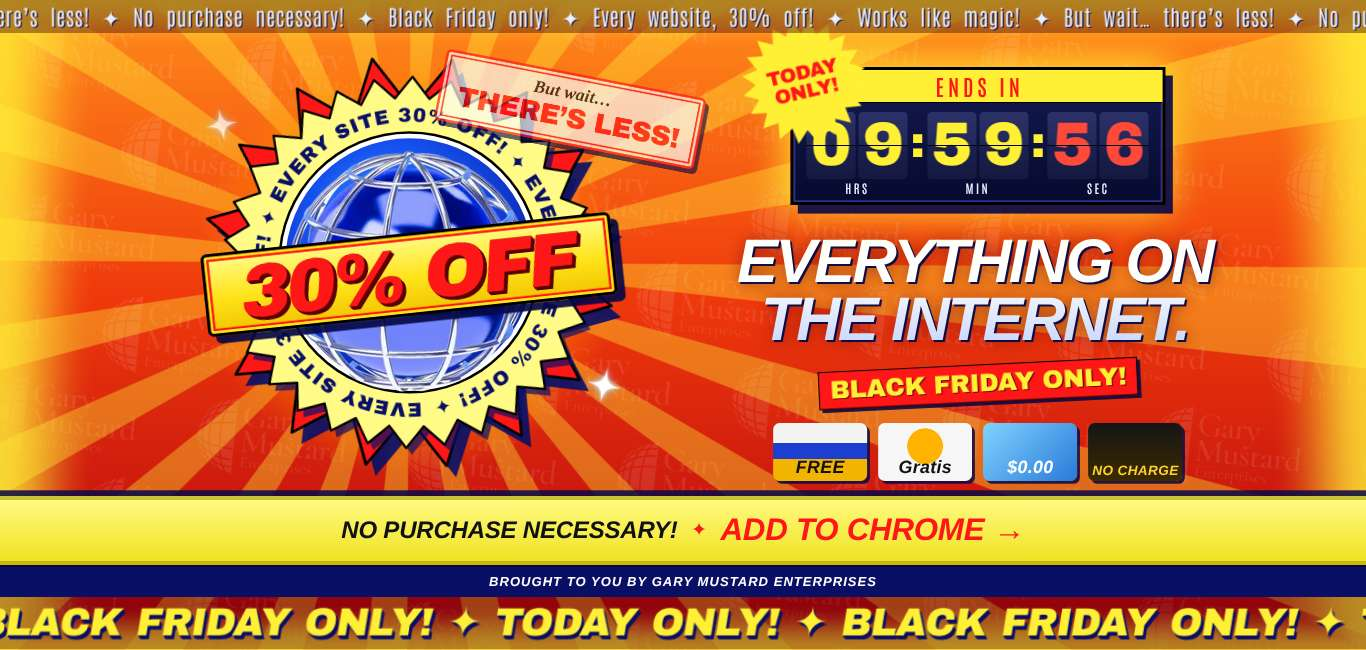
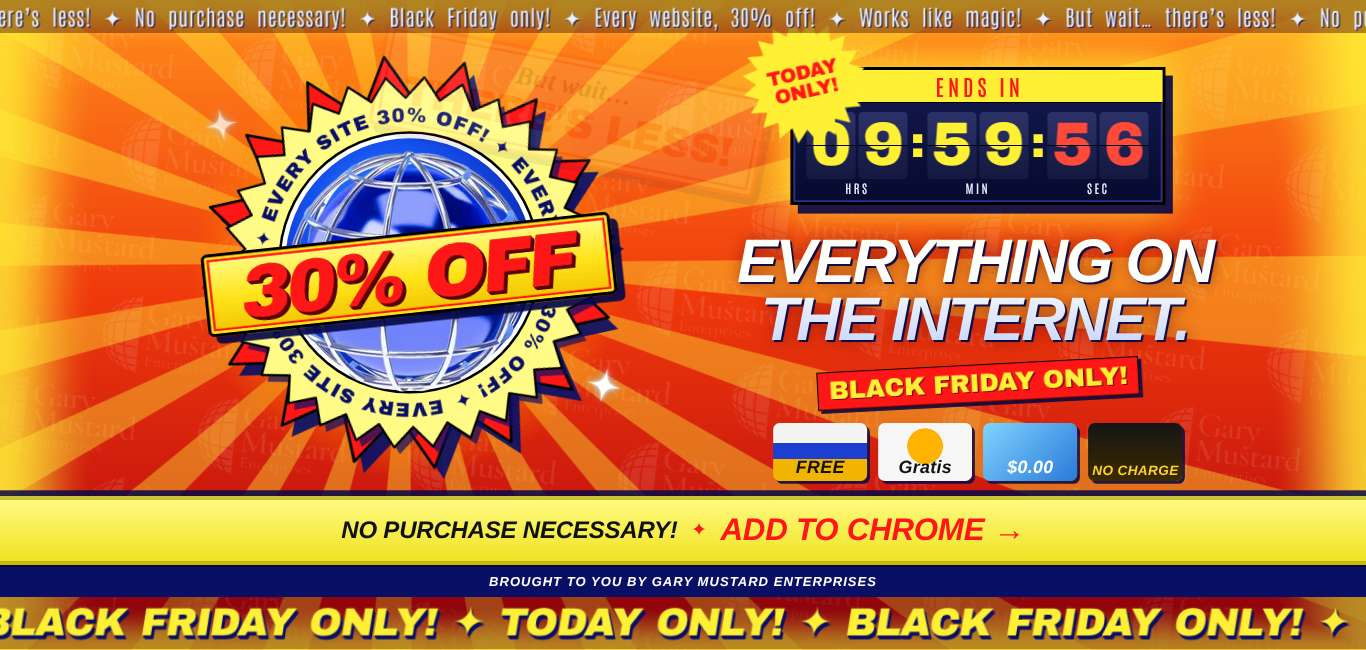
Website, phones: no cards (too cramped); more room for the badge, the words and the clock
Claude-Session: https://claude.ai/code/session_01NWuCfpnnkXbDHA2WA7GWBY

diff --git a/website/src/style.css b/website/src/style.css
@@ -61,11 +61,9 @@ body { -webkit-font-smoothing: antialiased; -webkit-tap-highlight-color: transpa
          grid-template: "badge clock" 33fr "badge words" 67fr / 52fr 48fr; column-gap: calc(56 * var(--s));
          padding: calc(16 * var(--s)) calc(48 * var(--s)) calc(20 * var(--s)); }
 /* tall windows read down from the badge: 30% OFF, EVERYTHING ON THE INTERNET., BLACK FRIDAY ONLY!, then the
-   clock, then the cards in a row of their own */
-.tall .stage { grid-template: "badge" 380fr "words" 170fr "clock" 132fr "cards" 78fr / 100%; padding: calc(10 * var(--s)) calc(14 * var(--s)) calc(14 * var(--s)); }
-.cards-box { grid-area: cards; position: relative; min-width: 0; min-height: 0; display: none; }
-.tall .cards-box { display: block; }
-.cards-box .cards { margin-top: 0; }
+   clock. No cards: there is no room for them */
+.tall .stage { grid-template: "badge" 410fr "words" 170fr "clock" 166fr / 100%; padding: calc(10 * var(--s)) calc(14 * var(--s)) calc(14 * var(--s)); }
+.tall .cards { display: none; }
 .badge-box { grid-area: badge; position: relative; min-height: 0; container-type: size; }
 .clock-box { grid-area: clock; position: relative; min-width: 0; min-height: 0; z-index: 2; }
 .words-box { grid-area: words; position: relative; min-width: 0; min-height: 0; z-index: 1; }

diff --git a/website/src/main.js b/website/src/main.js
@@ -156,11 +156,8 @@ function layout() {
   const s = tall ? Math.min(W / 430, H / 900) : Math.min(W / 1280, H / 800);
   root.style.setProperty('--s', `${s}px`);
 
-  // in a tall window the cards have their own row under the clock; in a wide one they follow the words
-  (tall ? $('.cards-box .fit') : $('.words')).append($('.cards'));
   fit($('.timer'), tall ? { w: 0.9, h: 0.94 } : { w: 0.94, h: 0.96 });
   fit($('.words'), tall ? { w: 0.94, h: 0.96 } : { w: 0.96, h: 0.96 });
-  if (tall) fit($('.cards-box .fit'), { w: 0.86, h: 0.8 });
   fit($('.order .fit'), tall ? { w: 0.9, h: 0.72 } : { w: 0.9, h: 0.46 });
   fit($('.by .fit'), { w: 0.92, h: 0.42 });
   settle(tall, s);

diff --git a/website/src/index.html b/website/src/index.html
@@ -80,8 +80,6 @@
         </div>
       </div>
 
-      <div class="cards-box"><div class="fit"></div></div>
-
       <div class="words-box">
         <div class="fit words">
           <h2 class="sub"><span>EVERYTHING ON</span> <span>THE INTERNET.</span></h2>
